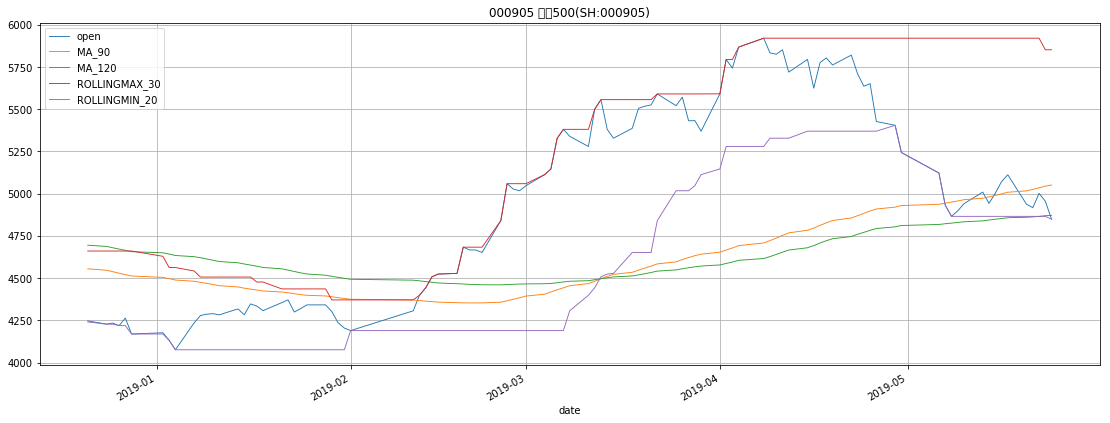
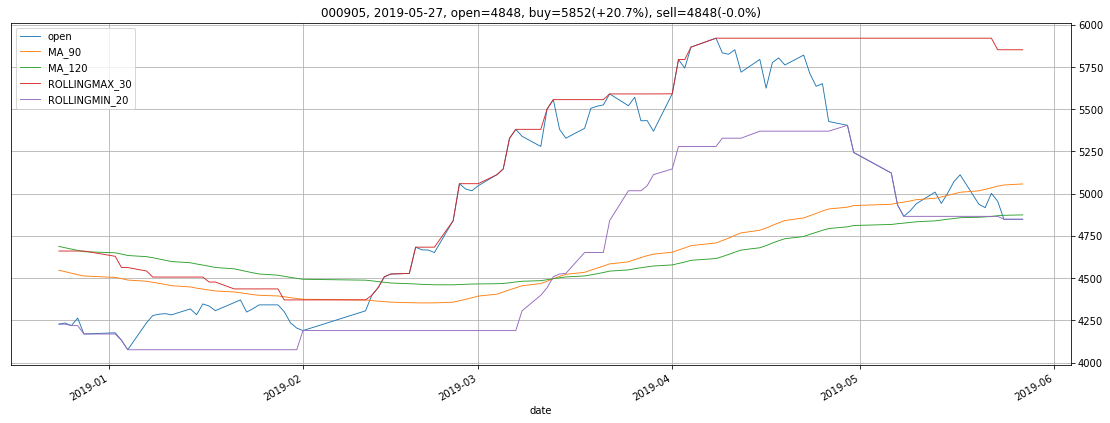
Daily update.

diff --git a/mds.md b/mds.md
@@ -19,10 +19,9 @@ display(HTML("<style>.container { width:70% !important; }</style>"))
 
 
 
-<script src="https://code.jquery.com/jquery-3.1.1.min.js"></script>
-<script src="https://code.highcharts.com/stock/highstock.js"></script>
-<script src="https://code.highcharts.com/stock/modules/exporting.js"></script>
-<script src="https://code.highcharts.com/stock/modules/export-data.js"></script>
+<script src="//code.highcharts.com/stock/highstock.js"></script>
+<script src="//code.highcharts.com/highcharts-more.js"></script>
+<script src="//code.highcharts.com/modules/exporting.js"></script>
 
 
 
@@ -45,10 +44,21 @@ for symbol in MONITOR_TARGET:
     df['date'] = df['date'].apply(lambda x: x.to_timestamp().to_datetime64())
     df.set_index('date', inplace=True)
 
-    title = '%s %s' % (symbol, MONITOR_TARGET[symbol]['NAME'])
+    today_market = df.iloc[-1]
+    now_point = today_market.open
+    for col in df.columns:
+        if 'ROLLINGMAX' in col:
+            buy_point = today_market[col]
+            buy_diff = (buy_point - now_point) / now_point * 100
+        elif 'ROLLINGMIN' in col:
+            sell_point = today_market[col]
+            sell_diff = (now_point - sell_point) / now_point * 100
+    title = '%s, %s, open=%d, buy=%d(+%.1f%%), sell=%d(-%.1f%%)' % \
+        (symbol, today_market.name.date(), now_point, buy_point, buy_diff, sell_point, sell_diff)
     
 #     display_charts(df, chart_type='stock', kind='line', title=title, figsize=(1000, 600))
     ax = df.plot(kind='line', title=title, linewidth=0.9, grid=True, figsize=(19, 7))
+    ax.yaxis.tick_right()
 ```
 
 
